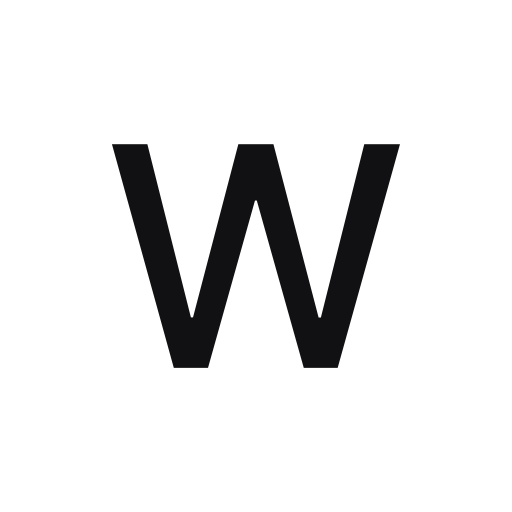
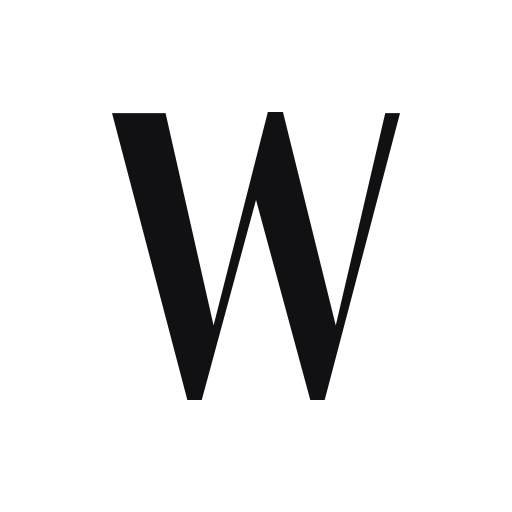
docs: rebrand the site as Womp Design
Metadata, Open Graph image, web manifest and icons now name Womp Design, built
on Kookie UI v1. The wordmark uses PP Acma; the licensed font file is
gitignored and falls back to the sans stack.

Changed region(s): [[0.2188, 0.2188, 0.7812, 0.7812], [0.5312, 0.5, 0.5625, 0.625], [0.5625, 0.625, 0.5938, 0.7188]]

diff --git a/apps/docs/app/layout.tsx b/apps/docs/app/layout.tsx
@@ -8,12 +8,14 @@ import { Analytics } from '@vercel/analytics/next';
 export const metadata: Metadata = {
   metadataBase: new URL('https://hellokookie.com'),
   title: {
-    default: 'Kookie UI – Open-Source React Component Library by Kushagra Dhawan',
-    template: '%s – Kookie UI',
+    default: 'Womp Design System',
+    template: '%s – Womp Design',
   },
   description:
-    'Kookie UI is an open-source React component library created by Kushagra Dhawan. Beautifully designed, accessible, and customizable components for building design systems.',
+    "Womp's design system: React components built on Kookie UI v1, an open-source fork of Radix Themes by Kushagra Dhawan.",
   keywords: [
+    'Womp Design',
+    'Womp',
     'Kookie UI',
     'React UI components',
     'Design system',
@@ -30,17 +32,17 @@ export const metadata: Metadata = {
   publisher: 'Kushagra Dhawan',
   alternates: { canonical: '/' },
   openGraph: {
-    title: 'Kookie UI – Open-Source React Component Library by Kushagra Dhawan',
+    title: 'Womp Design System',
     description:
-      'Kookie UI is an open-source React component library created by Kushagra Dhawan. Beautiful, accessible components for building design systems.',
+      "Womp's design system: React components built on Kookie UI v1, an open-source fork of Radix Themes by Kushagra Dhawan.",
     url: 'https://hellokookie.com',
-    siteName: 'Kookie UI',
+    siteName: 'Womp Design',
     images: [
       {
         url: '/logos/kookie-ui/kookie-ui.png',
         width: 1200,
         height: 630,
-        alt: 'Kookie UI – Open-Source React Component Library',
+        alt: 'Womp Design System',
       },
     ],
     locale: 'en_US',
@@ -48,9 +50,9 @@ export const metadata: Metadata = {
   },
   twitter: {
     card: 'summary_large_image',
-    title: 'Kookie UI – Open-Source React Component Library by Kushagra Dhawan',
+    title: 'Womp Design System',
     description:
-      'Kookie UI is an open-source React component library created by Kushagra Dhawan. Beautiful, accessible components for building design systems.',
+      "Womp's design system: React components built on Kookie UI v1, an open-source fork of Radix Themes by Kushagra Dhawan.",
     images: ['/logos/kookie-ui/kookie-ui.png'],
     site: '@kookieui',
     creator: '@kushagradhawan',
@@ -117,18 +119,18 @@ export default function RootLayout({
                 '@type': 'WebSite',
                 '@id': 'https://hellokookie.com/#website',
                 url: 'https://hellokookie.com',
-                name: 'Kookie UI',
+                name: 'Womp Design',
                 description:
-                  'Kookie UI is an open-source React component library created by Kushagra Dhawan. Beautifully designed, accessible, and customizable components for building design systems.',
+                  "Womp's design system: React components built on Kookie UI v1, an open-source fork of Radix Themes by Kushagra Dhawan.",
                 publisher: { '@id': 'https://kushagradhawan.com/#person' },
                 inLanguage: 'en-US',
               },
               {
                 '@type': 'SoftwareApplication',
                 '@id': 'https://hellokookie.com/#software',
-                name: 'Kookie UI',
+                name: 'Womp Design',
                 description:
-                  'An open-source React component library for building design systems. A fork of Radix Themes focused on scalable, consistent UI components with a fresh visual style.',
+                  "Womp's design system, built on Kookie UI v1, an open-source fork of Radix Themes.",
                 url: 'https://hellokookie.com',
                 applicationCategory: 'DeveloperApplication',
                 operatingSystem: 'Cross-platform',
@@ -143,9 +145,9 @@ export default function RootLayout({
               {
                 '@type': 'SoftwareSourceCode',
                 '@id': 'https://hellokookie.com/#sourcecode',
-                name: 'Kookie UI',
+                name: 'Kookie UI v1',
                 description:
-                  'Source code for Kookie UI — an open-source React component library by Kushagra Dhawan.',
+                  'Source code for Kookie UI v1, the open-source library Womp Design is built on.',
                 url: 'https://hellokookie.com',
                 codeRepository: 'https://github.com/KushagraDhawan1997/kookie-ui',
                 programmingLanguage: ['TypeScript', 'React'],
@@ -157,11 +159,11 @@ export default function RootLayout({
                 '@type': 'WebPage',
                 '@id': 'https://hellokookie.com/#webpage',
                 url: 'https://hellokookie.com',
-                name: 'Kookie UI – Open-Source React Component Library by Kushagra Dhawan',
+                name: 'Womp Design System',
                 isPartOf: { '@id': 'https://hellokookie.com/#website' },
                 about: { '@id': 'https://hellokookie.com/#software' },
                 description:
-                  'Kookie UI is an open-source React component library created by Kushagra Dhawan. Beautifully designed, accessible, and customizable components for building design systems.',
+                  "Womp's design system: React components built on Kookie UI v1, an open-source fork of Radix Themes by Kushagra Dhawan.",
                 inLanguage: 'en-US',
               },
               {

diff --git a/apps/docs/app/opengraph-image.tsx b/apps/docs/app/opengraph-image.tsx
@@ -1,6 +1,6 @@
 import { ImageResponse } from "next/og";
 
-export const alt = "Kookie UI – Modern React UI for Design Systems";
+export const alt = "Womp Design System";
 export const size = { width: 1200, height: 630 };
 export const contentType = "image/png";
 
@@ -18,8 +18,8 @@ async function loadGoogleFont(font: string, weight: number, text: string) {
 }
 
 export default async function Image() {
-  const title = "Kookie UI";
-  const subtitle = "Your Design System";
+  const title = "Womp Design";
+  const subtitle = "Built on Kookie UI v1";
   const text = title + subtitle;
 
   const interMedium = await loadGoogleFont("Inter", 500, text);
@@ -49,7 +49,7 @@ export default async function Image() {
             letterSpacing: "-0.02em",
           }}
         >
-          Kookie UI
+          {title}
         </div>
         <div
           style={{
@@ -58,7 +58,7 @@ export default async function Image() {
             color: "#737373",
           }}
         >
-          Your Design System
+          Built on Kookie UI v1
         </div>
       </div>
     ),

diff --git a/apps/docs/app/globals.css b/apps/docs/app/globals.css
@@ -9,11 +9,20 @@
   --font-mono: 'Google Sans Code', 'Menlo', 'Consolas (Custom)', monospace;
 }
 
-/* The wordmark face. Inter Tight, the heading face, loaded by the import above. v1 is Womp's
-   system now, so it does not wear the Acma mark the canonical Kookie sites use. */
-.kd-wordmark {
-  font-family: 'Inter Tight', var(--font-sans);
+/* The wordmark face, PP Acma Semibold, as on the other Kookie sites. Pangram Pangram licence: the
+   file is gitignored under public/fonts, and a clone without it sets the mark in the sans stack. */
+@font-face {
+  font-family: 'PP Acma';
+  src: url('/fonts/PPAcma-Semibold.woff2') format('woff2');
   font-weight: 500;
+  font-style: normal;
+  font-display: swap;
+}
+
+.kd-wordmark {
+  font-family: 'PP Acma', var(--font-sans);
+  font-weight: 500;
+  font-feature-settings: 'liga', 'dlig';
   line-height: 1;
   white-space: nowrap;
 }
